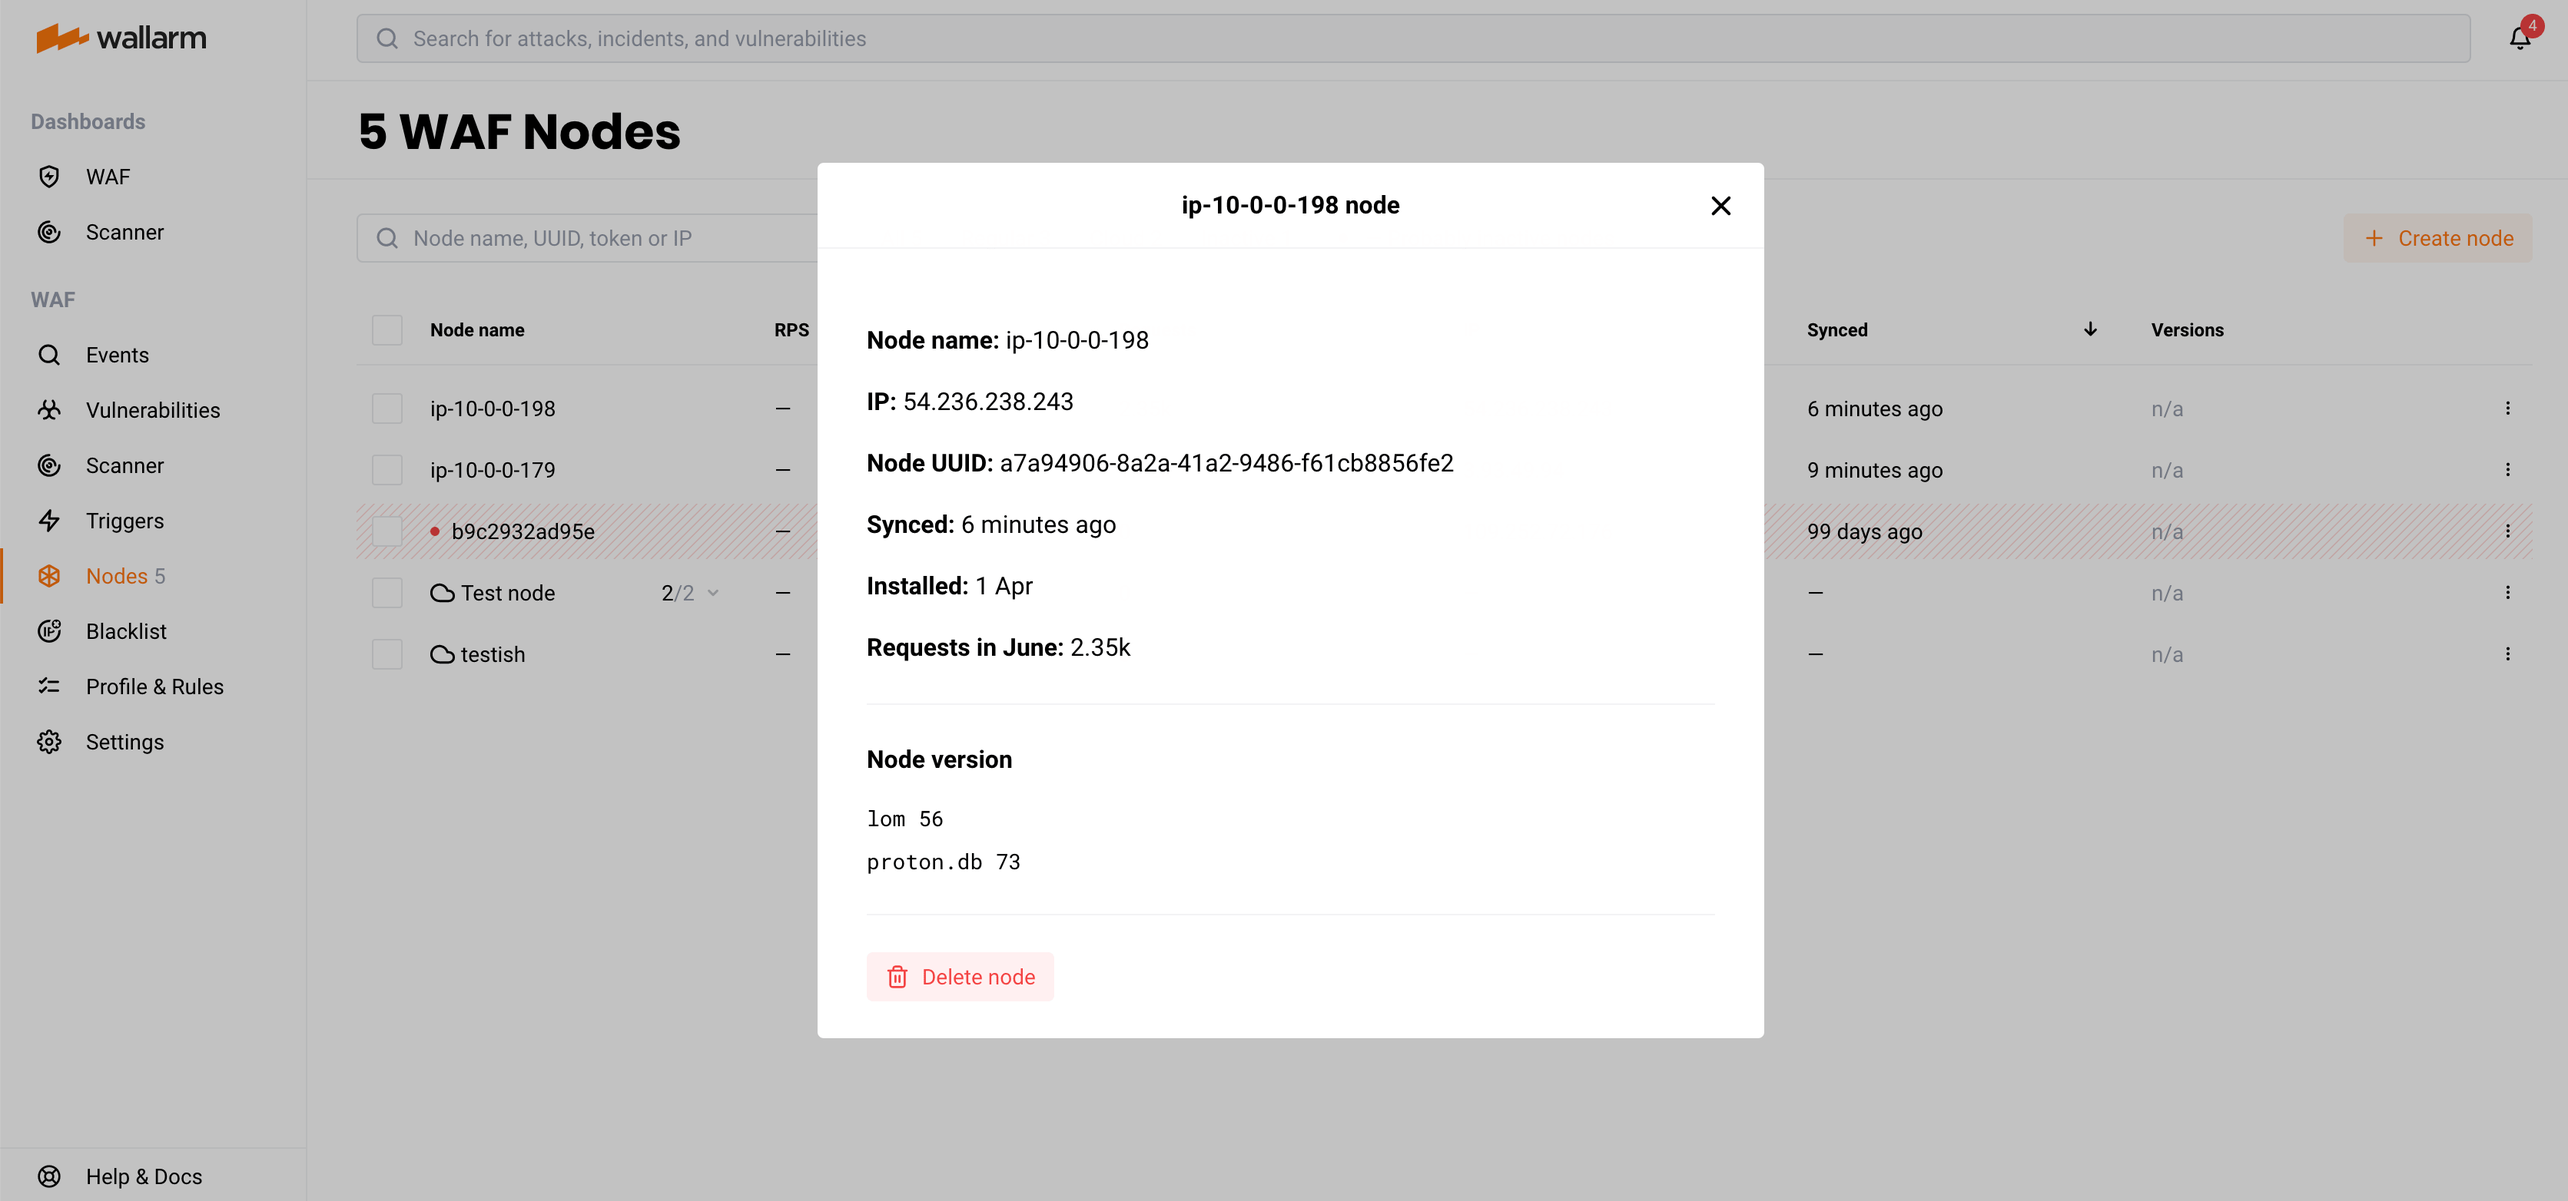
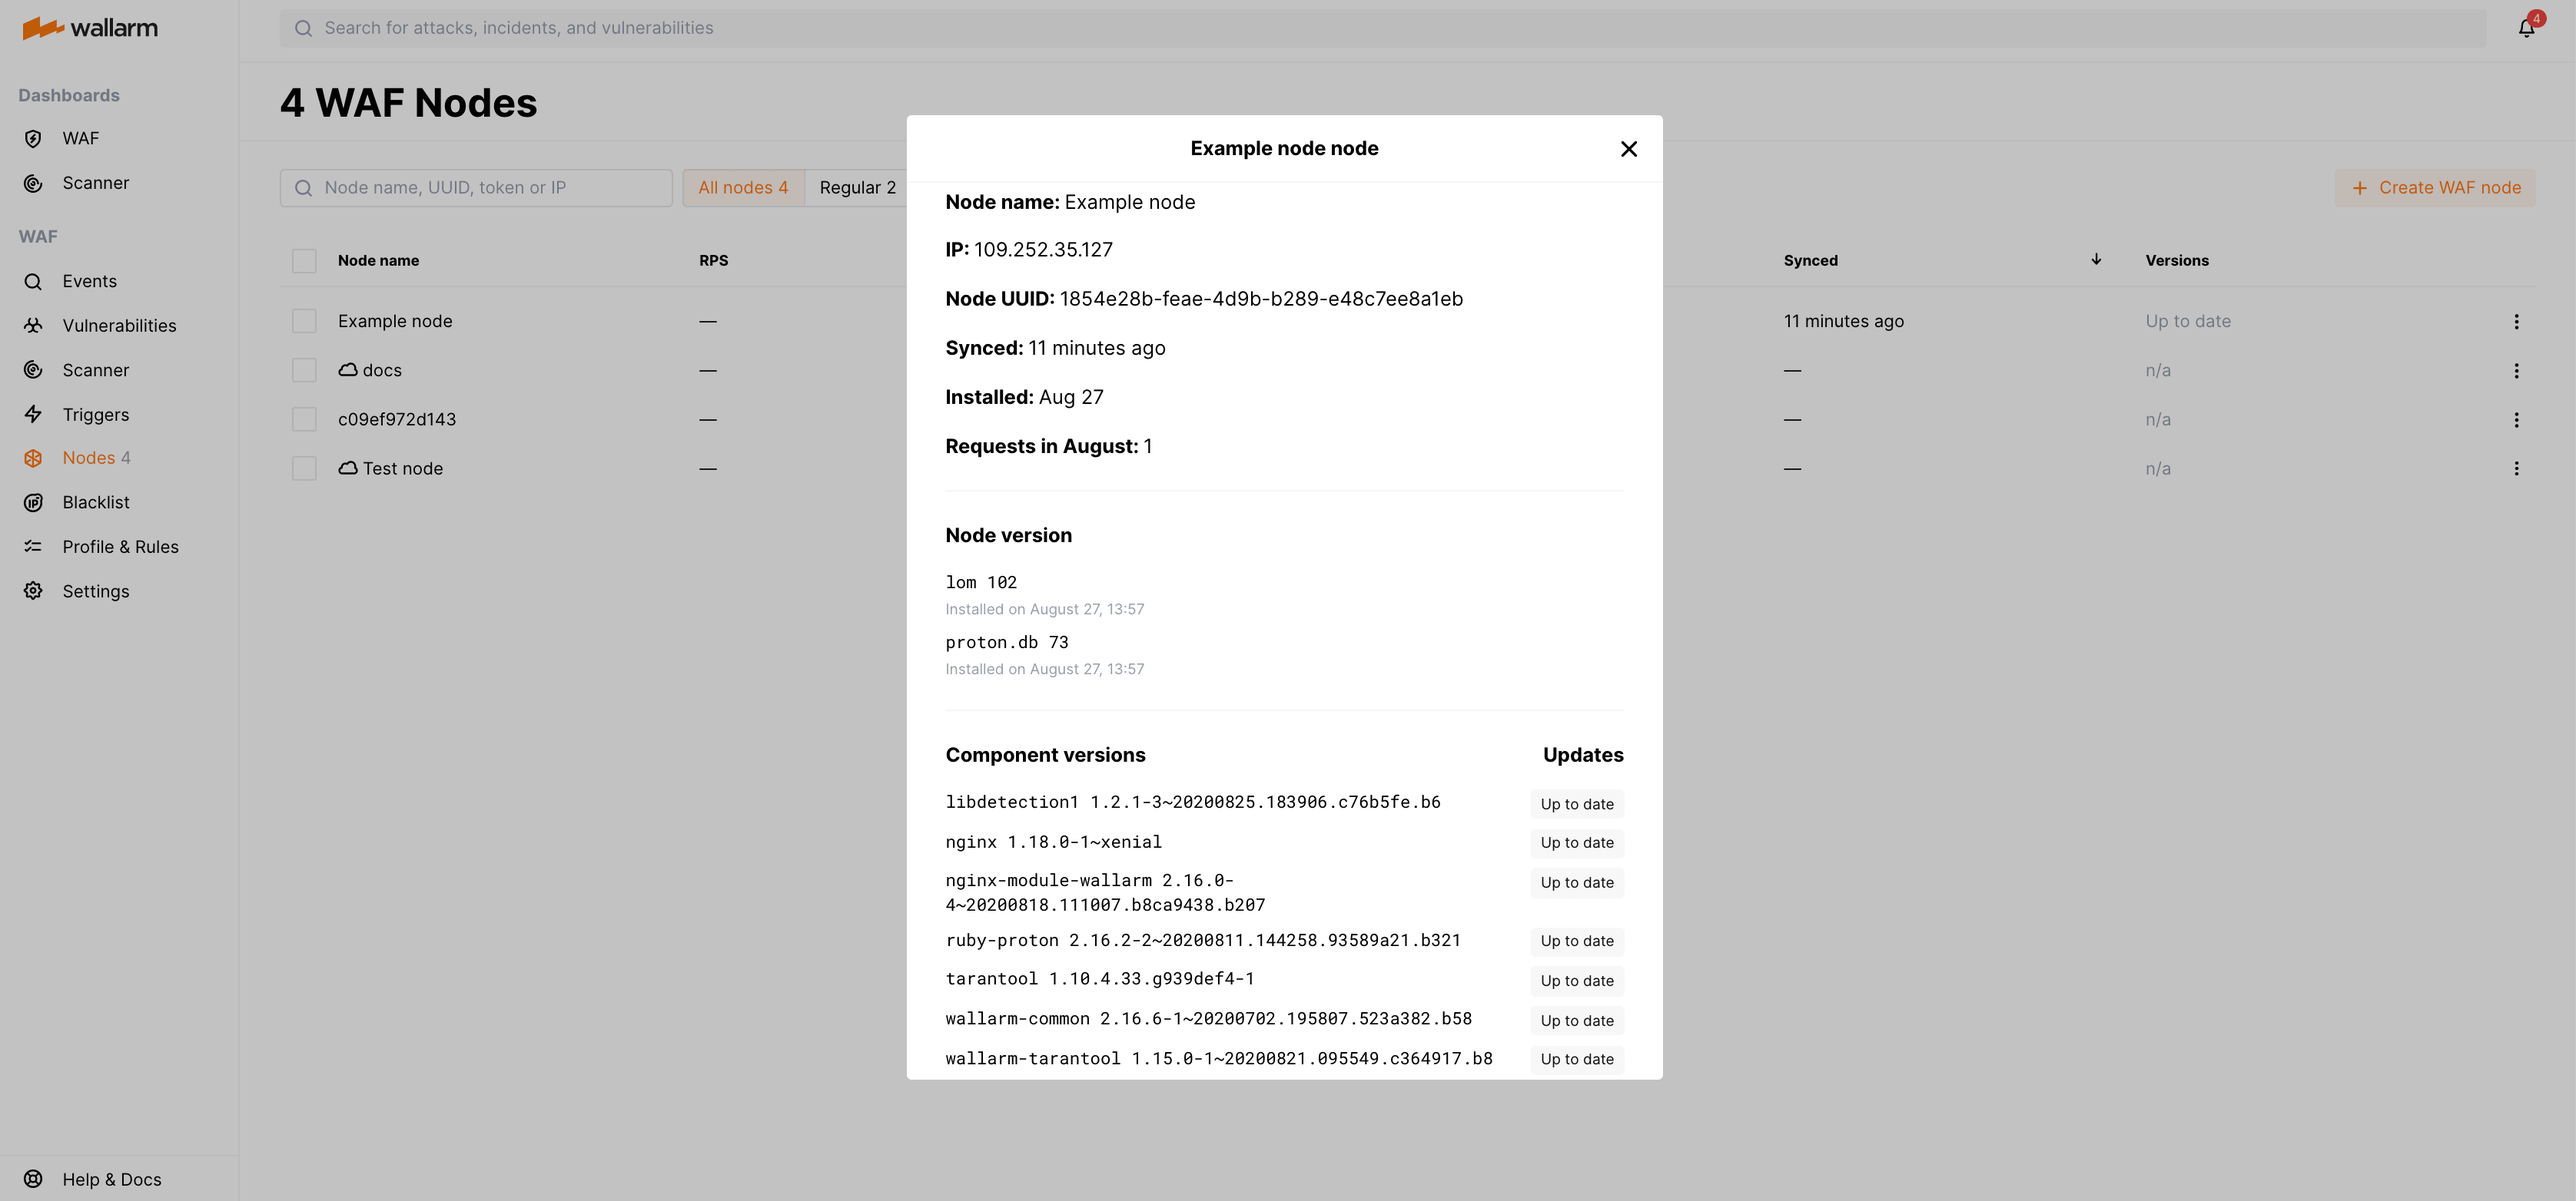
DOCS-480 add info about WAF versions in UI

diff --git a/docs/2.16/user-guides/nodes/regular-node.md b/docs/2.16/user-guides/nodes/regular-node.md
@@ -27,7 +27,9 @@ The following node properties and metrics are available:
 * Time of the last synchronization of the WAF node and Wallarm cloud
 * Date of the WAF node creation
 * Number of requests processed by the node in the current month
-* Versions of installed LOM and proton.db
+* Versions of used LOM and proton.db
+* Versions of installed Wallarm WAF packages, NGINX, and Envoy (if any)
+* Indicator of available component updates
 
 ![!Regular WAF node card](../../images/user-guides/nodes/view-regular-node.png)
 
